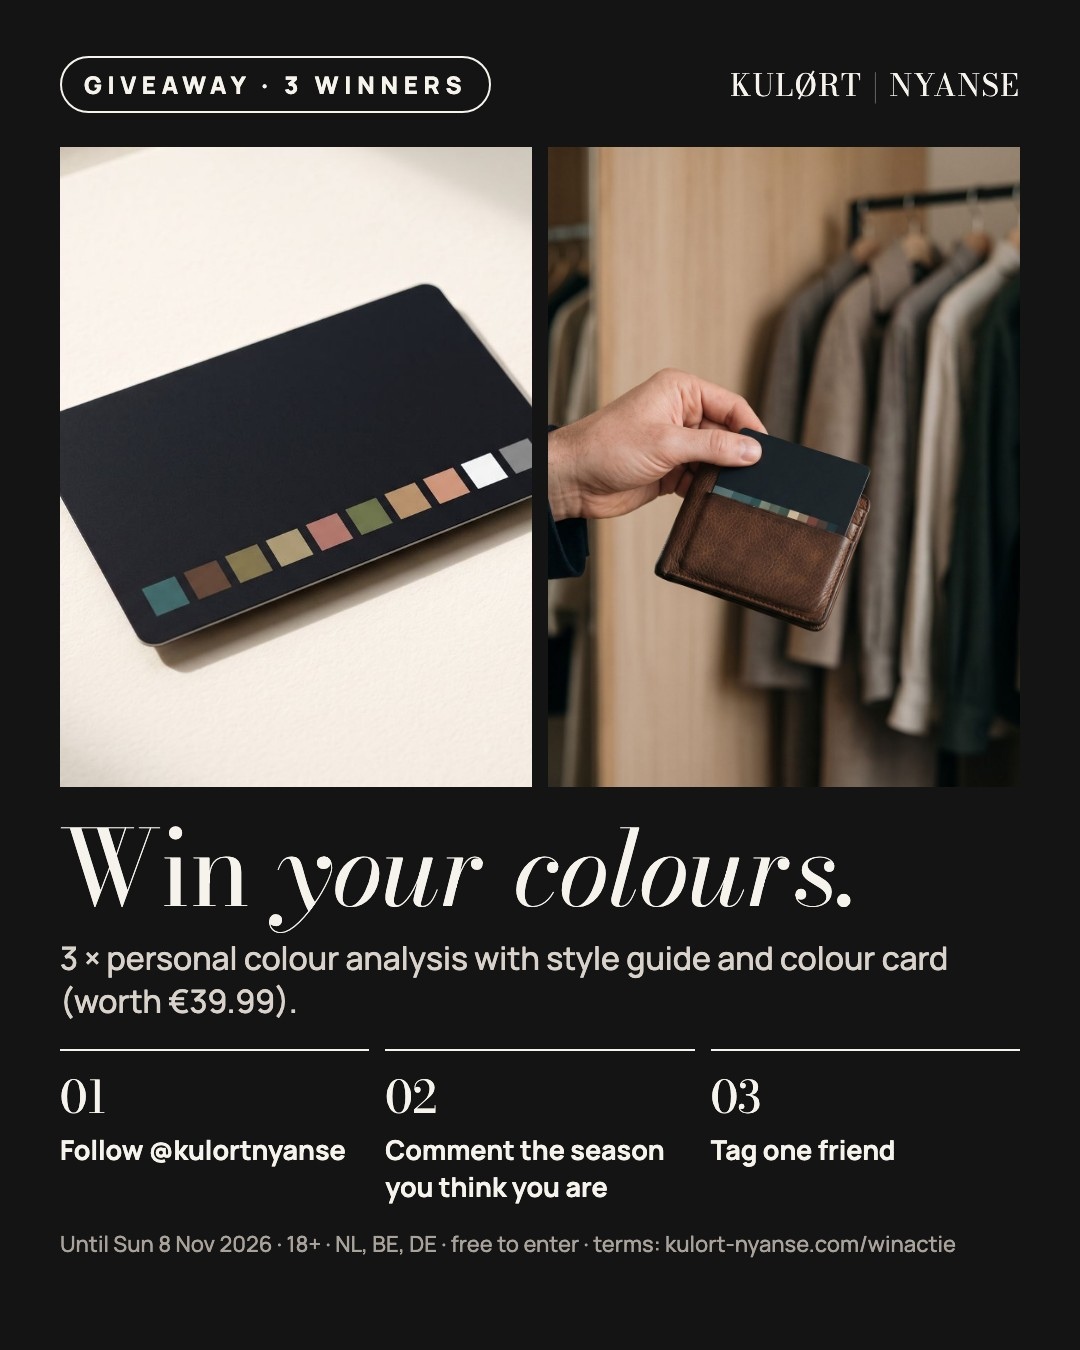
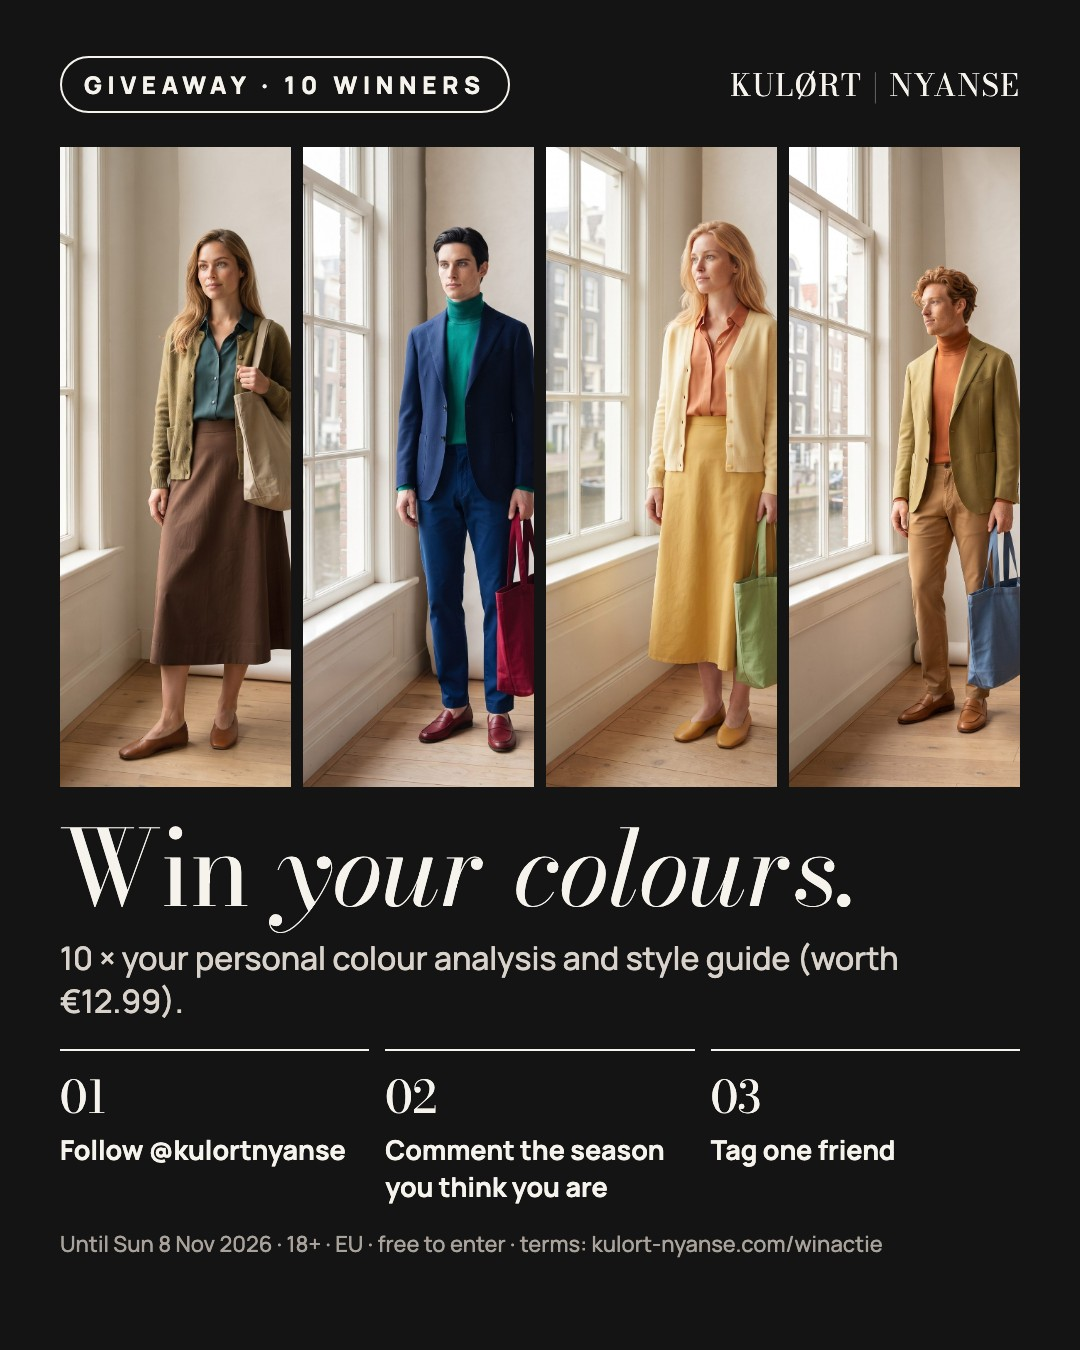
Free codes only for the digital guide (always), single-use giveaway codes (GIFT_CODES), checkout explains why a code does not apply; giveaway becomes 10 digital guides, EU-wide

diff --git a/app/(flow)/winactie/page.tsx b/app/(flow)/winactie/page.tsx
@@ -5,7 +5,7 @@ import { AppBar } from "../ui";
 
 export const metadata = {
   title: "Winactie · KULØRT · NYANSE",
-  description: "Actievoorwaarden van de Instagram-winactie van KULØRT · NYANSE: win je kleuren, 3 × stijlgids met kleurenpas.",
+  description: "Actievoorwaarden van de Instagram-winactie van KULØRT · NYANSE: win je kleuren, 10 × persoonlijke stijlgids.",
 };
 
 // The Instagram giveaway (founder, 21 Oct 2026; docs/marketing/GROEI-SPRINT.md). Free to enter, no
@@ -40,17 +40,18 @@ export default function Giveaway() {
         <p>Meedoen is gratis; je hoeft niets te kopen. Iedereen doet één keer mee, ook met meerdere reacties.</p>
 
         <h2>4. Wie mag meedoen</h2>
-        <p>Je bent 18 jaar of ouder en woont in Nederland, België of Duitsland (daar versturen we de kleurenpas). Medewerkers van {COMPANY.name} en hun gezinsleden doen niet mee.</p>
+        <p>Je bent 18 jaar of ouder en woont in de Europese Unie. Medewerkers van {COMPANY.name} en hun gezinsleden doen niet mee.</p>
 
         <h2>5. De prijs</h2>
         <p>
-          Er zijn <b>3 winnaars</b>. Elke winnaar krijgt de <b>stijlgids met kleurenpas</b> (waarde {euro(PRICES.card)}): een persoonlijke kleuranalyse met één selfie, de
-          persoonlijke stijlgids en een fysieke kleurenpas per post. De prijs is persoonlijk en niet inwisselbaar voor geld.
+          Er zijn <b>10 winnaars</b>. Elke winnaar krijgt de <b>persoonlijke stijlgids (digitaal)</b> (waarde {euro(PRICES.digital)}): een persoonlijke kleuranalyse met één
+          selfie en de persoonlijke stijlgids, direct online. Je krijgt een eenmalige code die je zelf invult bij de bestelling. De prijs is persoonlijk, niet
+          inwisselbaar voor geld en niet geldig voor de kleurenpas of het persoonlijke consult.
         </p>
 
         <h2>6. Trekking en bekendmaking</h2>
         <ul>
-          <li>Op maandag 9 november 2026 trekken we de winnaars willekeurig uit alle geldige deelnemers. We controleren of zij @kulortnyanse volgen.</li>
+          <li>Op maandag 9 november 2026 trekken we 10 winnaars en 5 reserves willekeurig uit alle geldige deelnemers. We controleren of zij @kulortnyanse volgen.</li>
           <li>Winnaars krijgen binnen 2 dagen een DM van <b>@kulortnyanse</b> en maken we bekend in onze Instagram-stories.</li>
           <li>Reageert een winnaar niet binnen 7 dagen, dan gaat de prijs naar een reservewinnaar.</li>
           <li><b>Pas op voor nepaccounts.</b> We sturen alleen berichten vanaf @kulortnyanse en vragen nooit om een betaling, een wachtwoord of je bankgegevens.</li>
@@ -58,8 +59,8 @@ export default function Giveaway() {
 
         <h2>7. Je gegevens</h2>
         <p>
-          We gebruiken je Instagram-naam alleen voor deze winactie. Van winnaars vragen we een e-mailadres en een postadres, alleen om de prijs te leveren; daarna
-          verwijderen we het adres. Meer in onze <Link href="/privacy">privacyverklaring</Link>.
+          We gebruiken je Instagram-naam alleen voor deze winactie. Winnaars krijgen hun code per DM; voor de gids vul je zelf je e-mailadres in bij de bestelling, net
+          als elke klant. Meer in onze <Link href="/privacy">privacyverklaring</Link>.
         </p>
 
         <h2>8. Overige</h2>
@@ -73,8 +74,8 @@ export default function Giveaway() {
         <h2 lang="en">In English</h2>
         <p lang="en">
           Free giveaway by {COMPANY.name} (KULØRT · NYANSE), from 2 to 8 November 2026 (Amsterdam time). Follow @kulortnyanse, comment the season you think you are and tag one friend.
-          18+, living in the Netherlands, Belgium or Germany; no purchase needed; one entry per person. Three winners each get the personal style guide with the physical colour card
-          (worth {euro(PRICES.card)}), drawn at random on 9 November 2026 and contacted only by DM from @kulortnyanse. We never ask for payment or passwords. Not sponsored,
+          18+, living in the EU; no purchase needed; one entry per person. Ten winners each get the personal style guide, digital (worth {euro(PRICES.digital)}), with a
+          single-use code, drawn at random on 9 November 2026 and contacted only by DM from @kulortnyanse. We never ask for payment or passwords. Not sponsored,
           endorsed or administered by, or associated with Instagram or Meta. The Dutch text above prevails.
         </p>
       </article>

diff --git a/lib/social/calendar.ts b/lib/social/calendar.ts
@@ -158,9 +158,9 @@ export function calendar(start = process.env.SOCIAL_START ?? "2026-10-26", base 
     caption: [`We're on Etsy now 🎉`, ``, `Every season in four packages, from a palette card to the complete collection, for her and for him. Not sure of your season yet? Start with the "Which season am I?" self-test.`, ``, `Find us on Etsy: KULORTNYANSE (second link in bio).`, `Prefer your personal analysis from one selfie? That's the first link in bio, free.`, ``, AI_LINE, ``, `#coloranalysis #seasonalcoloranalysis #etsyfinds #capsulewardrobe #personalstyle`].join("\n"),
   });
   // the giveaway (docs/marketing/GROEI-SPRINT.md; terms on /winactie): launch Mon 2 Nov, last call Fri 6 Nov
-  const giveawayRules = [`How to enter:`, `1. Follow @kulortnyanse`, `2. Comment the season you think you are (a guess is fine)`, `3. Tag one friend`, ``, `Until Sunday 8 November, 23:59 (Amsterdam). 18+, living in NL, BE or DE. Free to enter. Winners are drawn at random on 9 November and contacted only by DM from @kulortnyanse: we never ask for payment or passwords.`, `Terms: kulort-nyanse.com/winactie`, `This giveaway is not sponsored, endorsed or administered by, or associated with Instagram.`];
-  slots.push({ key: "giveaway-2026-11-02", at: amsterdamAt(2026, 11, 2, 12, 0), kind: "image", images: [`${base}/social/giveaway/giveaway.jpg`], caption: [`GIVEAWAY 🎉 Win your colours.`, ``, `3 winners each get a personal colour analysis from one selfie, their style guide and the physical colour card (worth €39.99).`, ``, ...giveawayRules, ``, `#giveaway #coloranalysis #seasonalcoloranalysis #winactie`].join("\n") });
-  slots.push({ key: "giveaway-last-2026-11-06", at: amsterdamAt(2026, 11, 6, 12, 0), kind: "image", images: [`${base}/social/giveaway/last-call.jpg`], caption: [`Last chance ⏳ The giveaway closes on Sunday at 23:59.`, ``, `3 × personal colour analysis with style guide and colour card (worth €39.99).`, ``, ...giveawayRules, ``, `#giveaway #coloranalysis #seasonalcoloranalysis #winactie`].join("\n") });
+  const giveawayRules = [`How to enter:`, `1. Follow @kulortnyanse`, `2. Comment the season you think you are (a guess is fine)`, `3. Tag one friend`, ``, `Until Sunday 8 November, 23:59 (Amsterdam). 18+, living in the EU. Free to enter. Winners are drawn at random on 9 November and contacted only by DM from @kulortnyanse: we never ask for payment or passwords.`, `Terms: kulort-nyanse.com/winactie`, `This giveaway is not sponsored, endorsed or administered by, or associated with Instagram.`];
+  slots.push({ key: "giveaway-2026-11-02", at: amsterdamAt(2026, 11, 2, 12, 0), kind: "image", images: [`${base}/social/giveaway/giveaway.jpg`], caption: [`GIVEAWAY 🎉 Win your colours.`, ``, `10 winners each get their personal colour analysis from one selfie and their personal style guide (worth €12.99).`, ``, ...giveawayRules, ``, AI_LINE, ``, `#giveaway #coloranalysis #seasonalcoloranalysis #winactie`].join("\n") });
+  slots.push({ key: "giveaway-last-2026-11-06", at: amsterdamAt(2026, 11, 6, 12, 0), kind: "image", images: [`${base}/social/giveaway/last-call.jpg`], caption: [`Last chance ⏳ The giveaway closes on Sunday at 23:59.`, ``, `10 × personal colour analysis and style guide (worth €12.99).`, ``, ...giveawayRules, ``, AI_LINE, ``, `#giveaway #coloranalysis #seasonalcoloranalysis #winactie`].join("\n") });
   // Monday 18:30, weeks 2–9: the benefit scenes (a moment where your colours make the difference)
   BENEFITS.forEach((b, i) => {
     const season = D[b.key.split("-")[1]!]!.name;

diff --git a/lib/flow/discount.ts b/lib/flow/discount.ts
@@ -1,7 +1,9 @@
-// Reusable discount codes for the founder's inner circle (decision 18 Oct 2026): unlimited use,
-// a fixed percentage (25% or 100% = free). Kept in the environment, never in the source:
-//   DISCOUNT_CODES="FAMILIE-XXXX:100,VRIENDEN-XXXX:25"
-// A code replaces the friend discount; they never stack.
+// Discount codes. Kept in the environment, never in the source:
+//   DISCOUNT_CODES="FAMILIE-XXXX:100,VRIENDEN-XXXX:25"   reusable, for the inner circle (18 Oct 2026)
+//   GIFT_CODES="WIN-XXXXXX,WIN-YYYYYY"                   single use, free, for giveaways (21 Oct 2026)
+// Rule (founder, 21 Oct 2026, "dit geldt altijd"): a free (100%) code is for the digital guide only,
+// never for the colour card or the personal consult. A code replaces the friend discount; they never stack.
+import type { Tier } from "./pricing";
 
 export function parseDiscountCodes(raw = process.env.DISCOUNT_CODES ?? ""): Map<string, number> {
   const m = new Map<string, number>();
@@ -13,10 +15,28 @@ export function parseDiscountCodes(raw = process.env.DISCOUNT_CODES ?? ""): Map<
   return m;
 }
 
-/** The percentage for a code, or null. Case-insensitive. */
+export function parseGiftCodes(raw = process.env.GIFT_CODES ?? ""): Set<string> {
+  return new Set(raw.split(",").map((c) => c.trim().toUpperCase()).filter((c) => /^[A-Z0-9-]{4,32}$/.test(c)));
+}
+
+/** forgiving: a pasted "CODE:100" or stray spaces still match the code itself */
+export const cleanCode = (code: string) => code.split(":")[0]!.replace(/\s+/g, "").toUpperCase();
+
+export type CodeCheck = { ok: true; percent: number; single: boolean; code: string } | { ok: false; reason: "unknown" | "digital_only" };
+
+/** Whether a code applies to this tier (without the "already used" check, which needs the database). */
+export function checkCode(code: unknown, tier: Tier, raw?: string, giftRaw?: string): CodeCheck {
+  if (typeof code !== "string") return { ok: false, reason: "unknown" };
+  const c = cleanCode(code);
+  const single = parseGiftCodes(giftRaw).has(c);
+  const percent = single ? 100 : parseDiscountCodes(raw).get(c);
+  if (!percent) return { ok: false, reason: "unknown" };
+  if (percent === 100 && tier !== "digital") return { ok: false, reason: "digital_only" };
+  return { ok: true, percent, single, code: c };
+}
+
+/** The percentage for a code, or null (any tier). Kept for callers that only need the number. */
 export function discountFor(code: unknown, raw?: string): number | null {
   if (typeof code !== "string") return null;
-  // forgiving: a pasted "CODE:100" or stray spaces still match the code itself
-  const clean = code.split(":")[0]!.replace(/\s+/g, "").toUpperCase();
-  return parseDiscountCodes(raw).get(clean) ?? null;
+  return parseDiscountCodes(raw).get(cleanCode(code)) ?? null;
 }

diff --git a/app/(flow)/resultaat/Checkout.tsx b/app/(flow)/resultaat/Checkout.tsx
@@ -63,6 +63,13 @@ export function Checkout({ tier, season, friendCode, note, onClose }: Props) {
         headers: { "Content-Type": "application/json" },
         body: JSON.stringify({ ref: r, tier, brand: config.key, voice, season, friendCode, discountCode: percent ? code.trim() : undefined, waiver, ...f, profile: profileForOrder() }),
       });
+      // a giveaway code that was used in the meantime: drop it, say so, let them pay or try another
+      if (res.status === 409) {
+        setPercent(0);
+        setCodeMsg("Deze code is al gebruikt.");
+        setBusy(false);
+        return;
+      }
       if (!res.ok) throw new Error(String(res.status));
       const d = (await res.json()) as { secret: string; checkoutUrl?: string | null; free?: boolean };
       setSecret(d.secret);
@@ -169,10 +176,10 @@ export function Checkout({ tier, season, friendCode, note, onClose }: Props) {
         <div className="row-inline">
           <input value={code} onChange={(e) => { setCode(e.target.value); setCodeMsg(null); }} placeholder="Kortingscode" aria-label="Kortingscode" autoCapitalize="characters" autoComplete="off" />
           <button type="button" className="btn btn-sm btn-ghost" onClick={async () => {
-            const r = await fetch("/api/order/code", { method: "POST", headers: { "Content-Type": "application/json" }, body: JSON.stringify({ code }) }).catch(() => null);
-            const d = r?.ok ? ((await r.json()) as { ok: boolean; percent?: number }) : null;
+            const r = await fetch("/api/order/code", { method: "POST", headers: { "Content-Type": "application/json" }, body: JSON.stringify({ code, tier }) }).catch(() => null);
+            const d = r?.ok ? ((await r.json()) as { ok: boolean; percent?: number; reason?: string }) : null;
             if (d?.ok && d.percent) setPercent(d.percent);
-            else setCodeMsg("Deze code kennen we niet.");
+            else setCodeMsg(d?.reason === "digital_only" ? "Deze code geldt alleen voor de digitale gids." : d?.reason === "used" ? "Deze code is al gebruikt." : "Deze code kennen we niet.");
           }}>Toepassen</button>
         </div>
       ) : (

diff --git a/lib/social/reminders.ts b/lib/social/reminders.ts
@@ -17,7 +17,7 @@ export const REMINDERS: Reminder[] = [
       "4. Budget: €5 per dag, 14 dagen (= €70). Alleen Instagram (niet Facebook), plaatsing Reels en Stories.",
       "5. Vink het AI-label aan (de beelden zijn met AI gemaakt).",
       "",
-      "Vandaag om 12:00 start ook de giveaway: de boost helpt die meteen. Na 7 dagen kijken we samen naar de kosten per nieuwe volger.",
+      "Vandaag om 12:00 start ook de giveaway (10 × de digitale gids): de boost helpt die meteen. Na 7 dagen kijken we samen naar de kosten per nieuwe volger.",
     ].join("\n"),
   },
   {
@@ -27,10 +27,10 @@ export const REMINDERS: Reminder[] = [
     text: [
       "De giveaway sloot zondag om 23:59. Vandaag trekken we de winnaars (voorwaarden: kulort-nyanse.com/winactie).",
       "",
-      "1. Open /lab/giveaway en klik op 'Trek winnaars': 3 winnaars en 3 reserves, willekeurig uit alle unieke deelnemers.",
+      "1. Open /lab/giveaway en klik op 'Trek winnaars': 10 winnaars en 5 reserves, willekeurig uit alle unieke deelnemers.",
       "2. Controleer bij elke winnaar of die @kulortnyanse volgt (anders: de eerste reserve).",
-      "3. Zet een gratis kortingscode in Vercel (DISCOUNT_CODES, bijvoorbeeld WIN-NOV:100) en redeploy.",
-      "4. Stuur elke winnaar een DM: gefeliciteerd, doe de gratis check op kulort-nyanse.com en kies 'met kleurenpas' met code WIN-NOV. Het adres vullen ze zelf in bij de bestelling.",
+      "3. Pak de 10 eenmalige codes uit GIFT_CODES (in .env en in Vercel). Elke code werkt één keer en alleen voor de digitale gids.",
+      "4. Stuur elke winnaar een DM met één eigen code: gefeliciteerd, doe de gratis check op kulort-nyanse.com, kies de digitale gids en vul je code in. Geen adres nodig.",
       "5. Zet de winnaars (alleen hun naam) in een Story.",
       "Reageert iemand niet binnen 7 dagen: de prijs gaat naar de volgende reserve.",
     ].join("\n"),

diff --git a/lib/flow/order.ts b/lib/flow/order.ts
@@ -4,7 +4,7 @@
 import { BRANDS, VOICES } from "@/lib/brand/config";
 import type { BrandKey, VoiceKey } from "@/lib/brand/types";
 import { SEASONS } from "@/lib/color/seasons";
-import { discountFor } from "./discount";
+import { checkCode } from "./discount";
 import { amountFor } from "./payment";
 import type { Tier } from "./pricing";
 import { parseReferral } from "./referral";
@@ -55,8 +55,9 @@ export function parseOrder(body: unknown): OrderRow | null {
   if (!(brand in BRANDS) || !email || !/^[^@\s]+@[^@\s]+\.[^@\s]{2,}$/.test(email)) return null;
   const voice = typeof b.voice === "string" && b.voice in VOICES ? (b.voice as VoiceKey) : null;
   const season = typeof b.season === "string" && b.season in SEASONS ? b.season : null;
-  // a discount code (inner circle) wins over a friend code; they never stack
-  const percent = discountFor(b.discountCode);
+  // a discount code wins over a friend code; they never stack. A free code is for the digital guide only.
+  const checked = checkCode(b.discountCode, tier);
+  const percent = checked.ok ? checked.percent : null;
   const friend = percent ? null : parseReferral(typeof b.friendCode === "string" ? b.friendCode : null);
   const country = ["NL", "BE", "DE"].includes(b.country as string) ? (b.country as "NL" | "BE" | "DE") : null;
   const physical = tier !== "digital";
@@ -69,7 +70,7 @@ export function parseOrder(body: unknown): OrderRow | null {
     city: physical ? str(b.city, 80) : null,
     country: physical ? country : null,
     // the code column records whichever code was used (a friend code or a discount code)
-    friend_code: percent ? String(b.discountCode).split(":")[0]!.replace(/\s+/g, "").toUpperCase() : friend?.code ?? null,
+    friend_code: checked.ok ? checked.code : friend?.code ?? null,
     waiver: b.waiver === true,
     profile: parseProfile(b.profile),
   };

diff --git a/lib/flow/order.test.ts b/lib/flow/order.test.ts
@@ -75,3 +75,24 @@ describe("discount code input", () => {
     expect(discountFor(" familie-bn26e ", "FAMILIE-BN26E:100")).toBe(100);
   });
 });
+
+describe("free codes: digital guide only, giveaway codes once (rule of 21 Oct 2026)", () => {
+  it("a 100% code never applies to the colour card or the consult, a 25% code does", async () => {
+    const { checkCode } = await import("./discount");
+    const raw = "FAMILIE-K7Q2:100,VRIENDEN-P3X9:25", gifts = "WIN-AB12CD,WIN-EF34GH";
+    expect(checkCode("familie-k7q2", "digital", raw, gifts)).toMatchObject({ ok: true, percent: 100 });
+    expect(checkCode("familie-k7q2", "card", raw, gifts)).toEqual({ ok: false, reason: "digital_only" });
+    expect(checkCode("familie-k7q2", "session", raw, gifts)).toEqual({ ok: false, reason: "digital_only" });
+    expect(checkCode("VRIENDEN-P3X9", "card", raw, gifts)).toMatchObject({ ok: true, percent: 25 });
+    expect(checkCode("win-ab12cd", "digital", raw, gifts)).toMatchObject({ ok: true, percent: 100, single: true, code: "WIN-AB12CD" });
+    expect(checkCode("WIN-AB12CD", "card", raw, gifts)).toEqual({ ok: false, reason: "digital_only" });
+    expect(checkCode("nope", "digital", raw, gifts)).toEqual({ ok: false, reason: "unknown" });
+  });
+  it("an order for the colour card with a free code pays the full price", () => {
+    process.env.DISCOUNT_CODES = "FAMILIE-K7Q2:100";
+    const card = { ...base, tier: "card", name: "A B", street: "Straat 1", postcode: "1234 AB", city: "Utrecht", country: "NL" };
+    expect(parseOrder({ ...card, discountCode: "FAMILIE-K7Q2" })?.amount_cents).toBe(3999);
+    expect(parseOrder({ ...card, discountCode: "FAMILIE-K7Q2" })?.friend_code).toBeNull();
+    delete process.env.DISCOUNT_CODES;
+  });
+});

diff --git a/app/api/order/code/route.ts b/app/api/order/code/route.ts
@@ -1,10 +1,15 @@
 import { NextResponse } from "next/server";
-import { discountFor } from "@/lib/flow/discount";
+import { checkCode } from "@/lib/flow/discount";
+import type { Tier } from "@/lib/flow/pricing";
+import { giftUsed } from "@/lib/flow/gift";
 
-// Checks a discount code for the checkout and returns only its percentage. The order API checks
-// the code again; this answer only drives what the buyer sees.
+// Checks a discount code for the checkout and returns only its percentage (or why it does not apply).
+// The order API checks the code again; this answer only drives what the buyer sees.
 export async function POST(req: Request) {
-  const b = (await req.json().catch(() => null)) as { code?: unknown } | null;
-  const percent = discountFor(b?.code);
-  return NextResponse.json(percent ? { ok: true, percent } : { ok: false }, { headers: { "Cache-Control": "no-store" } });
+  const b = (await req.json().catch(() => null)) as { code?: unknown; tier?: unknown } | null;
+  const tier: Tier = b?.tier === "card" || b?.tier === "session" ? b.tier : "digital";
+  const c = checkCode(b?.code, tier);
+  if (!c.ok) return NextResponse.json({ ok: false, reason: c.reason }, { headers: { "Cache-Control": "no-store" } });
+  if (c.single && (await giftUsed(c.code))) return NextResponse.json({ ok: false, reason: "used" }, { headers: { "Cache-Control": "no-store" } });
+  return NextResponse.json({ ok: true, percent: c.percent }, { headers: { "Cache-Control": "no-store" } });
 }

diff --git a/app/api/lab/giveaway/route.ts b/app/api/lab/giveaway/route.ts
@@ -4,7 +4,7 @@ import { allComments, whoami } from "@/lib/social/instagram";
 import { states } from "@/lib/social/run";
 
 // Founder only (proxy guards /api/lab): the giveaway draw (terms on /winactie). Every unique account
-// that commented on the giveaway posts before the closing time is one entry; 3 winners and 3 reserves
+// that commented on the giveaway posts before the closing time is one entry; 10 winners and 5 reserves
 // are drawn with a cryptographic random number. Following must be checked by hand (the API has no follower list).
 export const maxDuration = 60;
 const CLOSES = new Date("2026-11-08T22:59:59Z"); // Sunday 8 Nov 2026, 23:59 Amsterdam
@@ -21,6 +21,6 @@ export async function POST() {
   }
   const pool = [...seen.keys()];
   const picked: string[] = [];
-  while (picked.length < Math.min(6, pool.length)) picked.push(pool.splice(randomInt(pool.length), 1)[0]!);
-  return NextResponse.json({ entries: seen.size, winners: picked.slice(0, 3), reserves: picked.slice(3), drawnAt: new Date().toISOString() });
+  while (picked.length < Math.min(15, pool.length)) picked.push(pool.splice(randomInt(pool.length), 1)[0]!);
+  return NextResponse.json({ entries: seen.size, winners: picked.slice(0, 10), reserves: picked.slice(10), drawnAt: new Date().toISOString() });
 }

diff --git a/app/api/order/route.ts b/app/api/order/route.ts
@@ -1,6 +1,8 @@
 import { randomBytes } from "node:crypto";
 import { NextResponse } from "next/server";
 import { supabaseConfigured, supabaseRest } from "@/lib/db/supabase";
+import { parseGiftCodes } from "@/lib/flow/discount";
+import { giftUsed } from "@/lib/flow/gift";
 import { parseOrder } from "@/lib/flow/order";
 import { markPaid } from "@/lib/flow/fulfil";
 import { mailConfigured, sendMail } from "@/lib/mail";
@@ -12,6 +14,8 @@ export async function POST(req: Request) {
   if (!supabaseConfigured()) return NextResponse.json({ error: "not_configured" }, { status: 503 });
   const row = parseOrder(await req.json().catch(() => null));
   if (!row) return NextResponse.json({ error: "invalid" }, { status: 400 });
+  // a giveaway code works once: any earlier order with it, paid or not, uses it up
+  if (row.friend_code && parseGiftCodes().has(row.friend_code) && (await giftUsed(row.friend_code))) return NextResponse.json({ error: "code_used" }, { status: 409 });
   const secret = randomBytes(18).toString("base64url");
   try {
     await supabaseRest("orders", { method: "POST", body: JSON.stringify({ ...row, secret }), prefer: "return=minimal" });

diff --git a/app/lab/(tool)/giveaway/page.tsx b/app/lab/(tool)/giveaway/page.tsx
@@ -17,7 +17,7 @@ export default function GiveawayDraw() {
   return (
     <div className="stack">
       <h1>Giveaway: trekking</h1>
-      <p className="muted small">Alle unieke accounts die vóór zondag 8 november 23:59 reageerden onder de twee giveaway-posts doen één keer mee. Controleer daarna met de hand of de winnaars @kulortnyanse volgen. Maak een screenshot van de uitslag.</p>
+      <p className="muted small">10 winnaars en 5 reserves. Alle unieke accounts die vóór zondag 8 november 23:59 reageerden onder de twee giveaway-posts doen één keer mee. Controleer daarna met de hand of de winnaars @kulortnyanse volgen. Maak een screenshot van de uitslag.</p>
       <button onClick={draw} disabled={busy}>{busy ? "Bezig…" : "Trek winnaars"}</button>
       {d?.error && <p className="pill small">{d.error}</p>}
       {d && !d.error && (

diff --git a/lib/flow/gift.ts b/lib/flow/gift.ts
@@ -1,0 +1,7 @@
+// Single-use giveaway codes (GIFT_CODES): used once there is any order with the code, paid or not.
+import { supabaseRest } from "@/lib/db/supabase";
+
+export async function giftUsed(code: string): Promise<boolean> {
+  const r = await supabaseRest(`orders?friend_code=eq.${encodeURIComponent(code)}&select=ref&limit=1`).then((x) => x.json()).catch(() => []);
+  return Array.isArray(r) && r.length > 0;
+}
